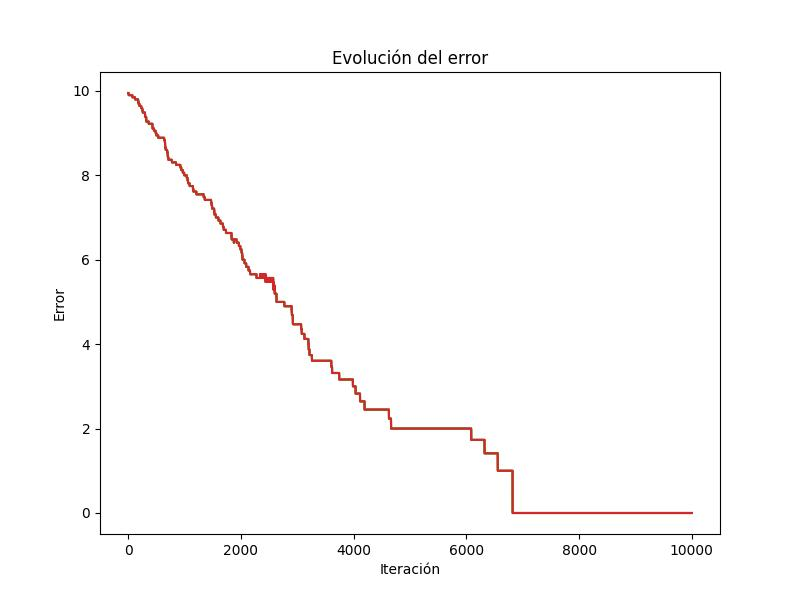
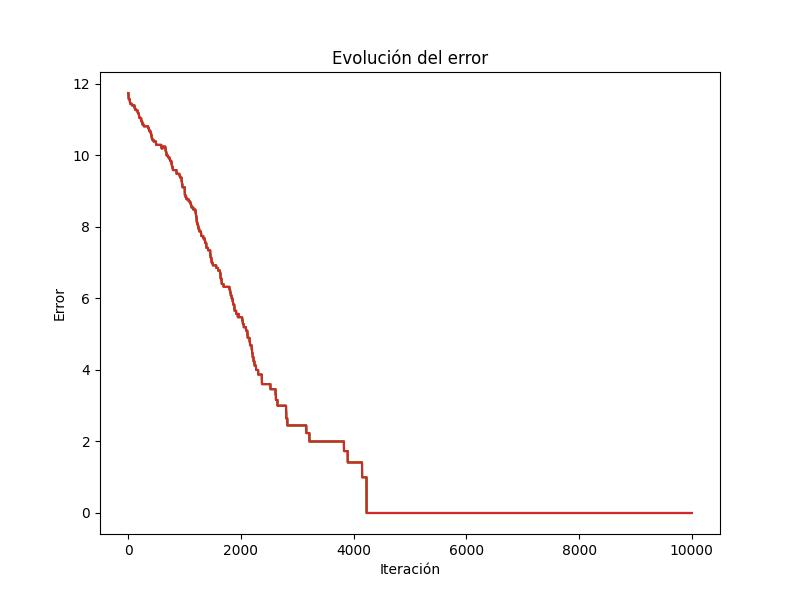
perceptron

diff --git a/logic/training.py b/logic/training.py
@@ -1,4 +1,3 @@
-import matplotlib.pyplot as plt
 import numpy as np
 import tkinter as tk
 from logic.graphics import graphic
@@ -8,23 +7,20 @@ class Perceptron:
         self.eta = eta
         self.weight = weight
         self.X = X
-        self.Y = Y
+        self.Y = Y    
+    def functionStep(x):
+        return 1 if x >= 0 else 0
 
 weights = []
 err=[]
 
-def functionStep(x):
-    return 1 if x >= 0 else 0
-
 def initialization(data):
-    column = data.csv_read.shape[1]
-    Y = data.csv_read.iloc[:, column-1]
-    X = data.csv_read.iloc[:,0: column-1]
+    num_columns = data.csv_read.shape[1]
+    Y = data.csv_read.iloc[:, -1].to_numpy().reshape(-1, 1)
+    X = data.csv_read.iloc[:,0: num_columns-1]
     X.insert(0, "x0", 1)
-    weights = [round(w, 2) for w in np.random.uniform(-1, 1, column)]
-    Y = Y.to_numpy().reshape(-1, 1)
     X = X.to_numpy()
-    weights = np.array(weights).reshape(1, -1)
+    weights = np.array( [round(w, 2) for w in np.random.uniform(-1, 1, num_columns)]).reshape(1, -1)
     neuron = Perceptron(data.eta,weights, X, Y)
     cycle(neuron, data.epoch)
 
@@ -36,11 +32,11 @@ def cycle(neuron, epoch):
     weights.clear()
 
 def training(neuron):
-    U = np.linalg.multi_dot([neuron.X, neuron.weight.T])
-    y_C = np.vectorize(functionStep)(U)
+    U = np.dot(neuron.X, neuron.weight.T)
+    y_C = np.vectorize(Perceptron.functionStep)(U)
     error = neuron.Y - y_C
-    change_weights = neuron.eta * np.dot(error.T, neuron.X)
-    neuron.weight = neuron.weight + change_weights
-    norma_error = np.linalg.norm(error)    
-    weights.append(np.squeeze(neuron.weight))
-    err.append(norma_error)
+    newWeights = neuron.eta * np.dot(error.T, neuron.X)
+    neuron.weight = neuron.weight + newWeights
+    normaError = np.linalg.norm(error)    
+    weights.append(neuron.weight.flatten().tolist())
+    err.append(normaError)
